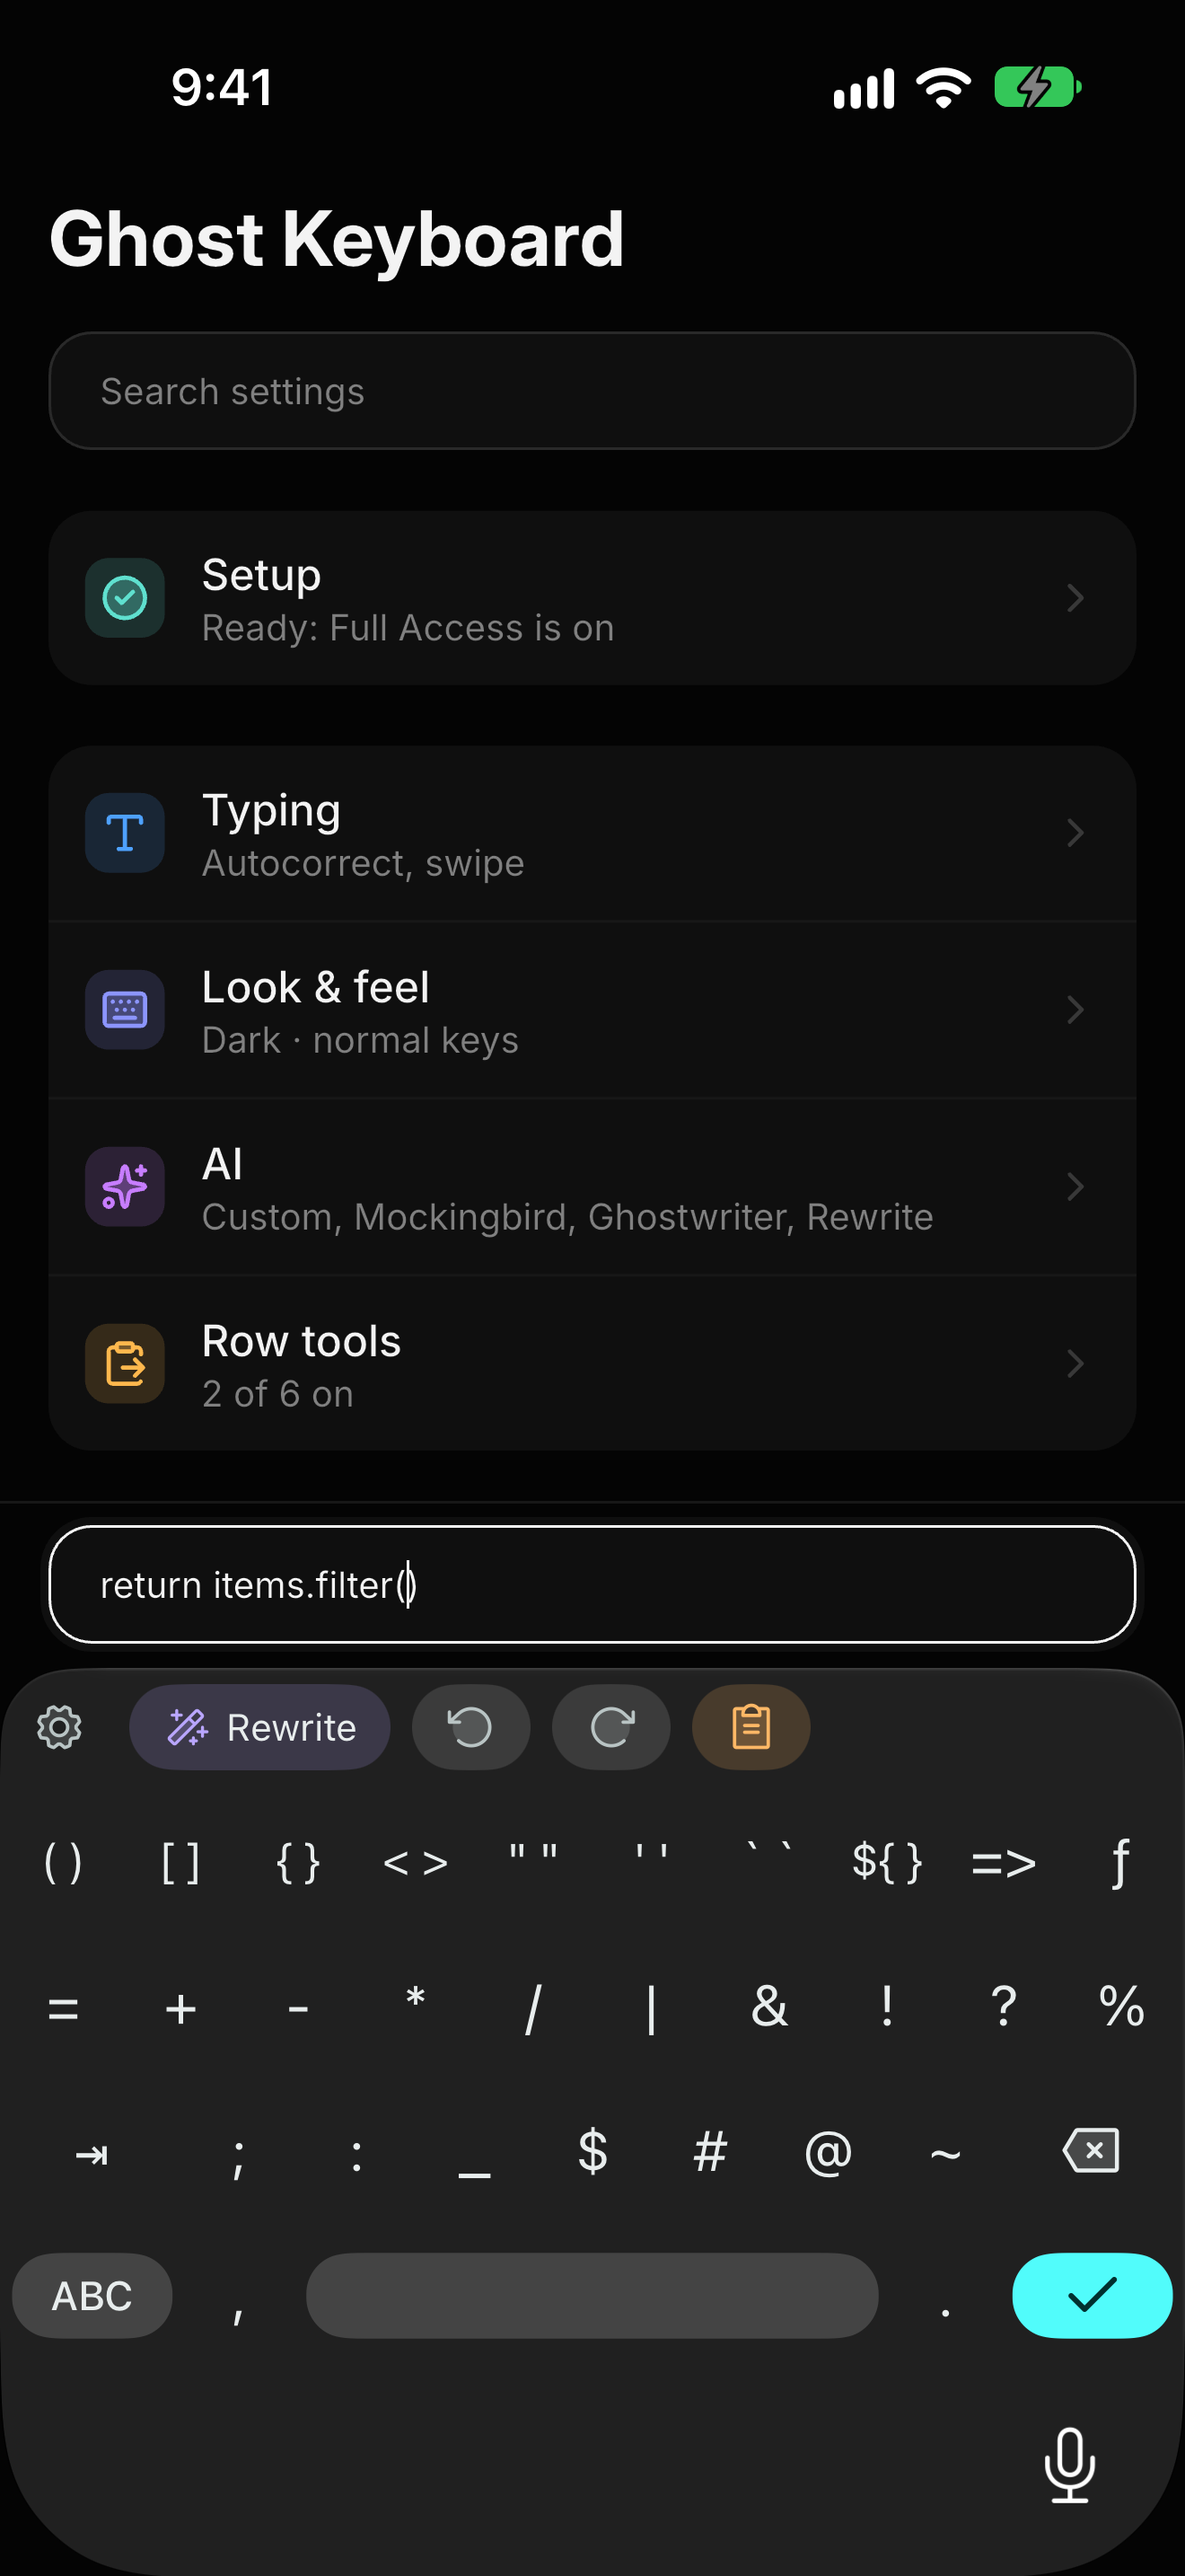
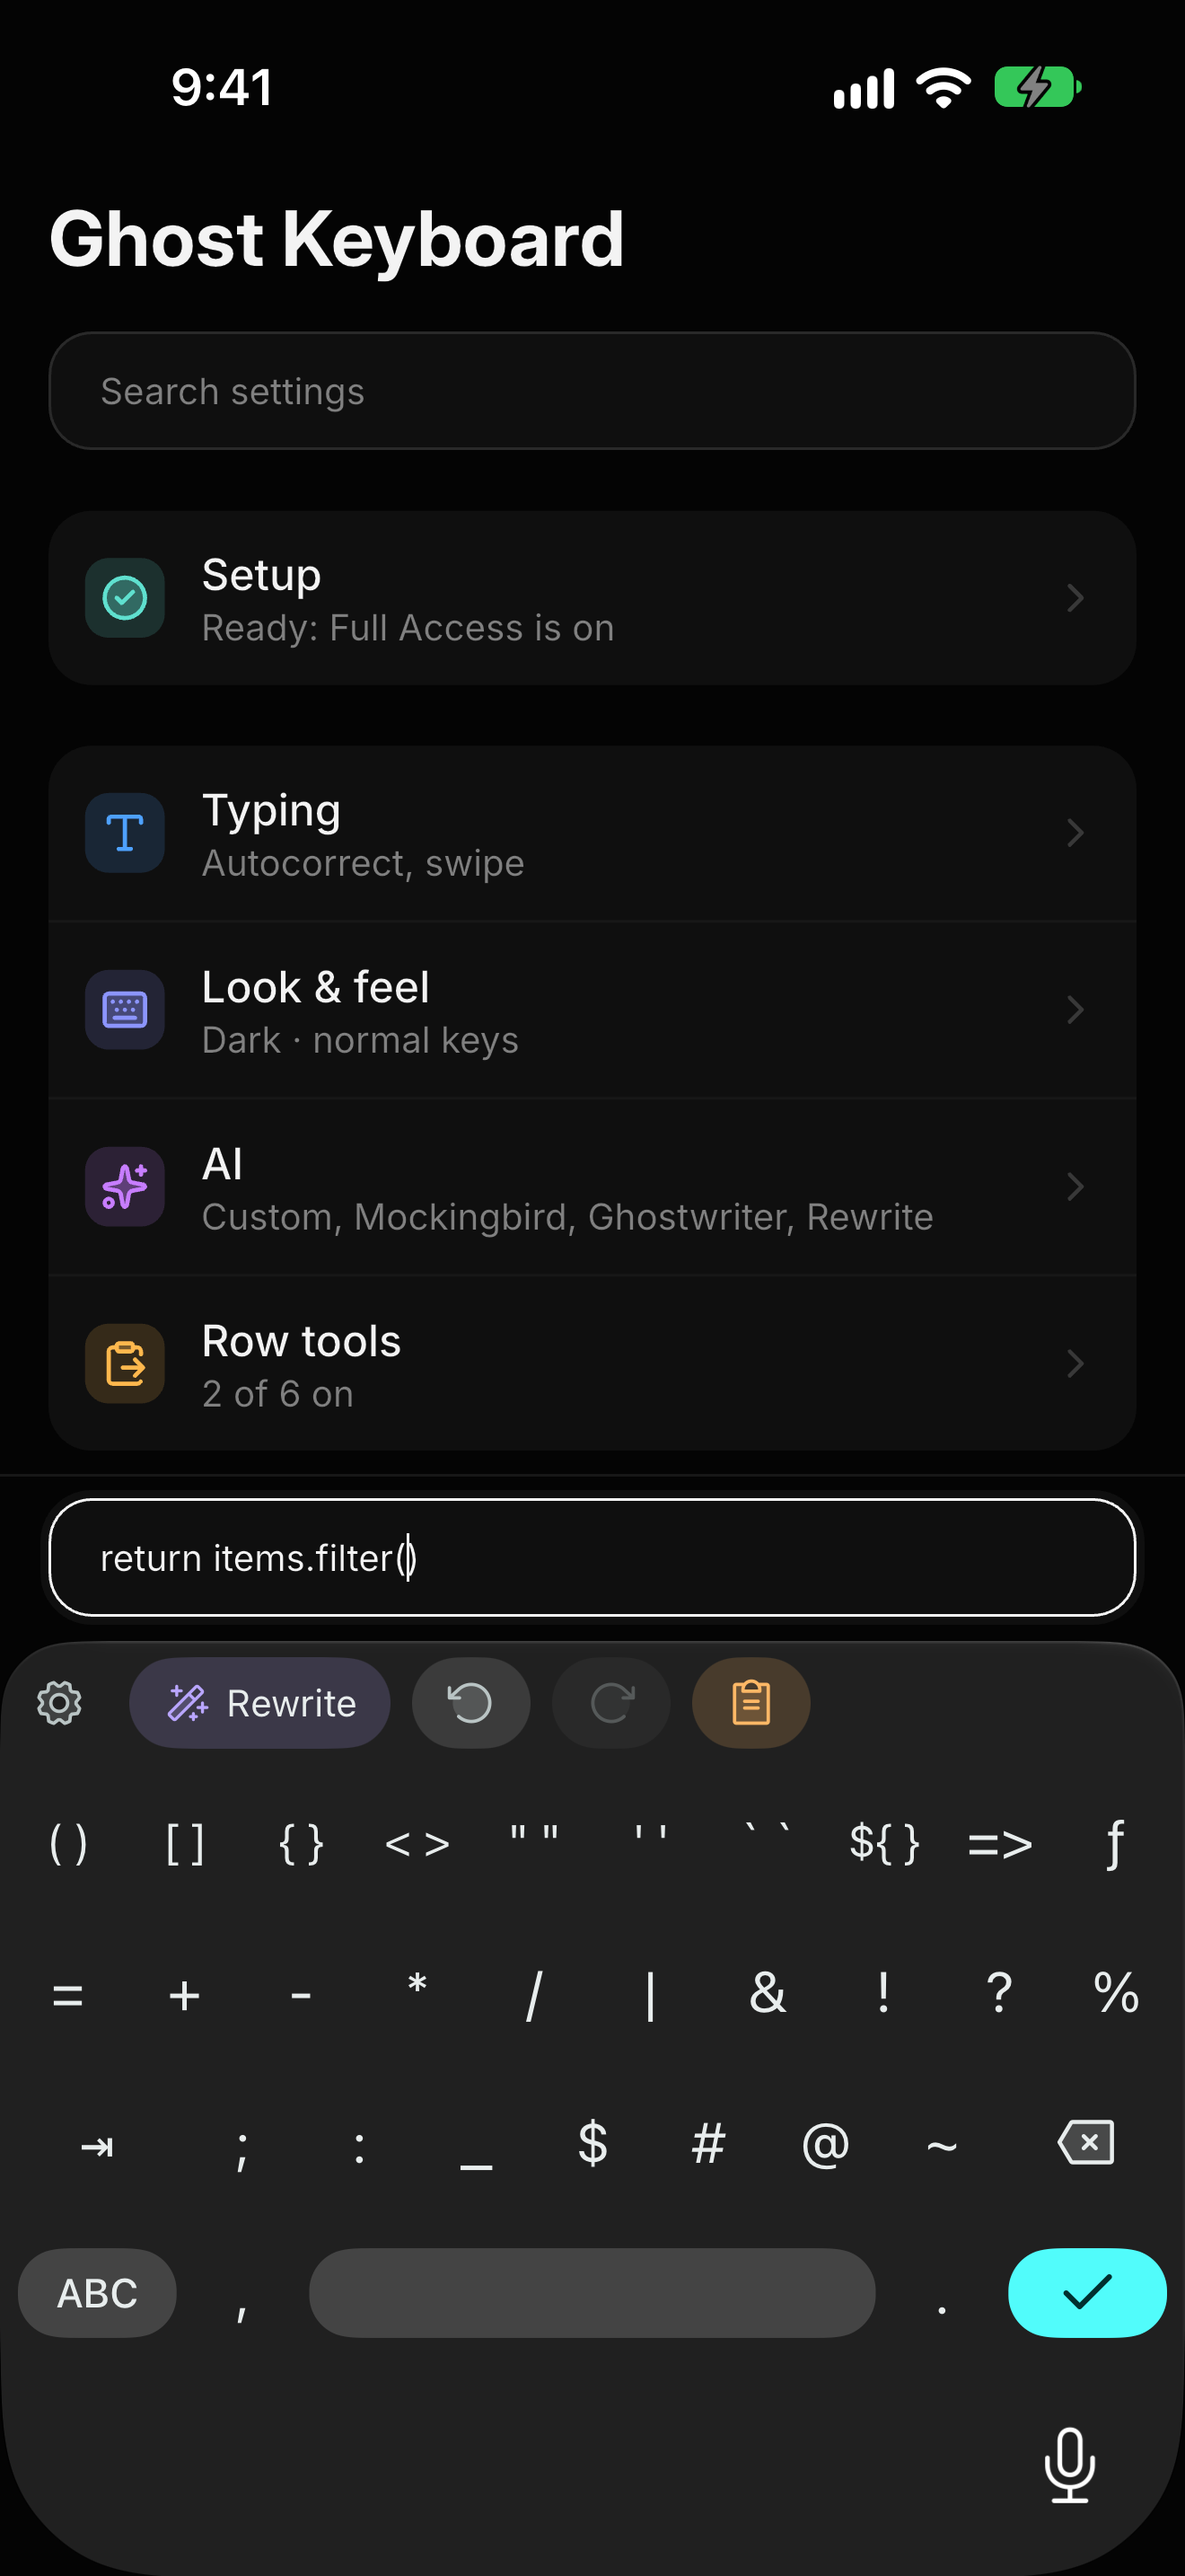
iOS: Condensed key height works on iPhone and iPad (rows 46/60 as tall, a slimmer row, smaller letters, as on Android); the store screenshots retaken on 0.15.0 with the keyboard up in the app's own field on every picture (Matt: "make sure you're using the ghost keyboard app try the keyboard here box

diff --git a/ios/GhostKeyboard/KeyboardView.swift b/ios/GhostKeyboard/KeyboardView.swift
@@ -170,7 +170,14 @@ final class KeyboardView: UIView {
         let wide = landscape ? Self.screenWidth >= Self.widePhone : (across > 0 ? across : Self.screenWidth) >= Self.widePhone
         let stock: CGFloat = traitCollection.userInterfaceIdiom == .phone && wide ? 56 : 54
         let h: CGFloat
-        switch keyHeightSetting { case "short": h = stock - 6; case "tall": h = stock + 6; default: h = stock }
+        switch keyHeightSetting {
+        case "short": h = stock - 6
+        case "tall": h = stock + 6
+        // Condensed, as on Android: rows about three quarters as tall (46 of Gboard's 60), the whole keyboard a fifth
+        // or more smaller (Matt, 2026-11-10: "a condensed version of the keyboard that takes up 15% or more less space").
+        case "condensed": h = (stock * 46 / 60).rounded()
+        default: h = stock
+        }
         let next = landscape ? min(h, 40) : h
         if next != rowHeight { rowHeight = next; layoutKeys(); invalidateIntrinsicContentSize() }
     }
@@ -226,7 +233,9 @@ final class KeyboardView: UIView {
     // --- metrics ----------------------------------------------------------------------------------------------------
 
     /// The strip above the keys: the row's, or a sliver that leaves the top row room to breathe.
-    private var toolbarHeight: CGFloat { pluginRow ? (onPhone ? 46 : 44) : 10 }
+    private var toolbarHeight: CGFloat { pluginRow ? (condensed ? 36 : (onPhone ? 46 : 44)) : (condensed ? 6 : 10) }
+    /// Condensed keys: shorter rows, a slimmer row above, smaller letters.
+    private var condensed: Bool { keyHeightSetting == "condensed" }
     private var onPhone: Bool { traitCollection.userInterfaceIdiom == .phone }
     /// The screen's shorter side, in points: which iPhone this is, whichever way it is held.
     static var screenWidth: CGFloat { min(UIScreen.main.bounds.width, UIScreen.main.bounds.height) }
@@ -589,7 +598,8 @@ final class KeyboardView: UIView {
 
     /// `text` centred on (cx, cy), its size shrunk until it fits `fit`.
     fileprivate func drawText(_ text: String, _ cx: CGFloat, _ cy: CGFloat, size: CGFloat, weight: UIFont.Weight, colour: UIColor, fit: CGFloat) {
-        var size = size
+        // Condensed keys' labels shrink with them, keeping the same room around them.
+        var size = condensed ? (size * 0.87).rounded() : size
         var font = UIFont.systemFont(ofSize: size, weight: weight)
         var s = (text as NSString).size(withAttributes: [.font: font])
         while size > 9 && s.width > fit {

diff --git a/ios/RunnerUITests/StoreShots.swift b/ios/RunnerUITests/StoreShots.swift
@@ -91,17 +91,17 @@ extension KeyboardUITests {
     /// them on a 440-point-wide phone, as fractions of the screen.
     func testShots6_Settings() {
         let app = ghost
-        app.launch()
-        sleep(3)
-        tap(CGPoint(x: screenSize.width / 2, y: screenSize.height * 0.392))
-        sleep(2)
-        shot("08-look-and-feel")
-        app.terminate()
-        app.launch()
-        sleep(3)
-        tap(CGPoint(x: screenSize.width / 2, y: screenSize.height * 0.232))
-        sleep(2)
-        shot("09-setup")
+        for (name, y) in [("08-look-and-feel", 0.392), ("09-setup", 0.232)] {
+            app.terminate()
+            app.launch()
+            sleep(3)
+            tap(CGPoint(x: screenSize.width / 2, y: screenSize.height * y))
+            sleep(2)
+            // The keyboard up in the page's own "Try the keyboard here" field, as on every other picture.
+            let field = app.textFields.firstMatch
+            if field.waitForExistence(timeout: 5) { field.tap(); sleep(2) }
+            shot(name)
+        }
     }
 
     /// A picture of iOS's own keyboard in the app's field, on a Simulator that has not had Ghost Keyboard added: what
@@ -118,5 +118,13 @@ extension KeyboardUITests {
         sleep(2)
         if app.buttons["Continue"].exists { app.buttons["Continue"].tap(); sleep(1) }
         shot("stock")
+    }
+
+    /// The condensed keys, for comparing with the normal height (not a store picture).
+    func testLook_Condensed() {
+        set(base + "&key_height=condensed")
+        openField()
+        shot("condensed")
+        set(base + "&key_height=normal")
     }
 }

diff --git a/docs/store/ios/screenshots.md b/docs/store/ios/screenshots.md
@@ -1,17 +1,19 @@
 # Screenshots
 
-## Taken (2026-11-10)
+## Taken (2026-11-11, on 0.15.0)
 
 Raw screens from the Simulator at the sizes App Store Connect takes, with no transparency, no captions drawn on, and
-no third-party name in any of them. The typing surface is the app's own "Try the keyboard here" field.
+no third-party name in any of them. Every picture has the keyboard up in the app's own "Try the keyboard here" field
+(Matt, 2026-11-11: "make sure you're using the ghost keyboard app try the keyboard here box to display the keyboard"),
+the settings pages too.
 
 - `screenshots/iphone-6.9/` (1320 × 2868, iPhone 17 Pro Max, iOS 27): `01-letters`, `02-developer`, `03-longpress`,
   `04-swipe`, `05-retro`, `06-request`, `07-answer`, `08-look-and-feel`, `09-setup`. Made by
   `ios/RunnerUITests/StoreShots.swift` (`TEST_RUNNER_SHOTS=<folder> ios/tool/ui_test.sh <udid> testShots0_Setup
   testShots1_LettersAndPairs …`, with `STUB_ANSWER="…" python3 ios/tool/stub_server.py` serving the answer).
 - `screenshots/ipad-13/` (2064 × 2752, iPad Pro 13-inch, iOS 27): `01-letters` (the split layout), `02-developer`,
-  `03-retro`, `04-look-and-feel`, `05-setup`. Taken by hand (`xcrun simctl io <udid> screenshot`): the UI test places
-  its taps by the phone's layout.
+  `03-retro`, `04-look-and-feel`, `05-setup`. Taken by hand (`xcrun simctl io <udid> screenshot`, the field tapped
+  at 300, 1324 points): the UI test places its taps by the phone's layout.
 
 The iOS strip under the keyboard shows only its microphone: Ghost Keyboard was the Simulator's only keyboard, which
 is when iOS leaves the globe out. The plan below is what the set was drawn from; the captions are there if the
